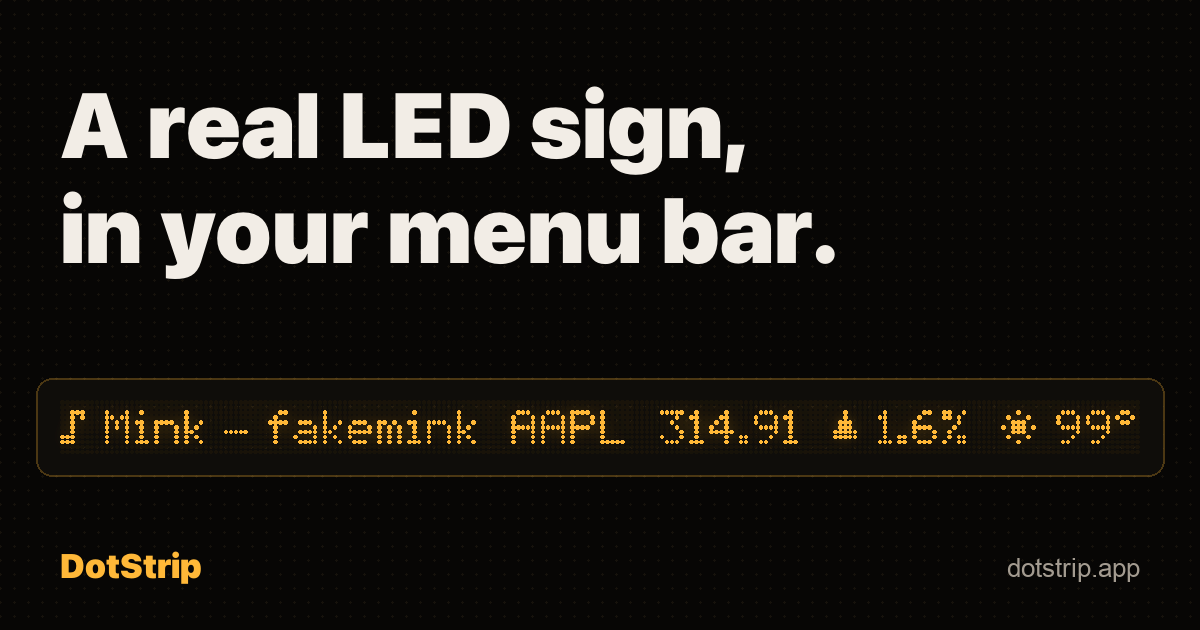
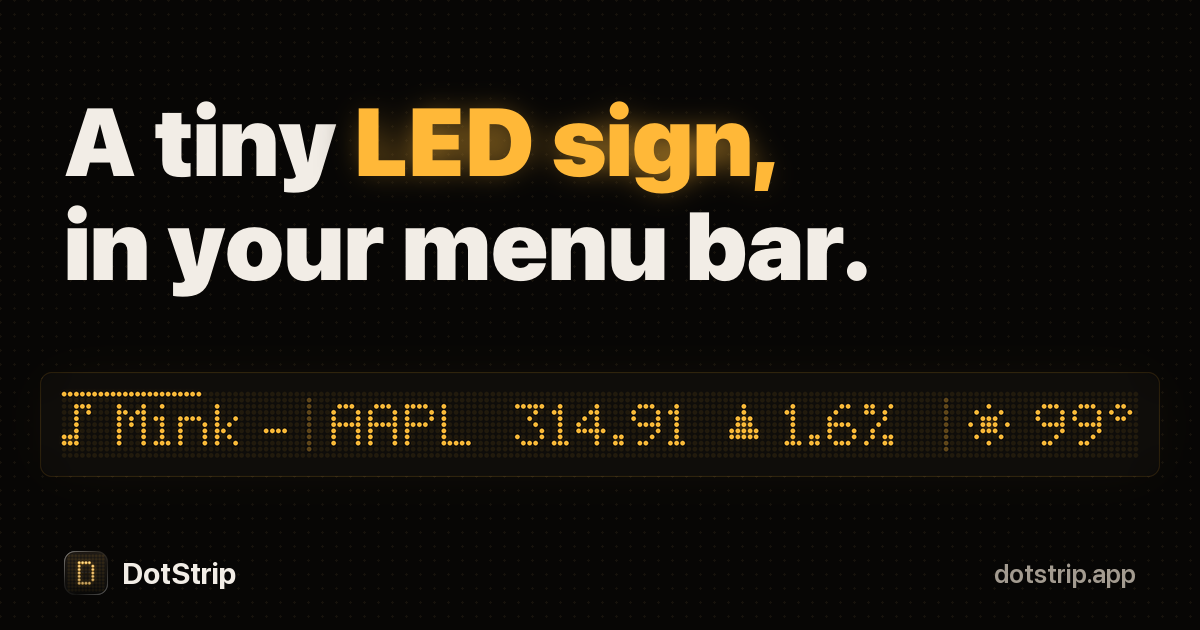
Update the website: new headline and link-preview card
Synced from DotStrip website/ (5c9f212).

diff --git a/index.html b/index.html
@@ -3,9 +3,9 @@
 <head>
 <meta charset="utf-8">
 <meta name="viewport" content="width=device-width, initial-scale=1">
-<title>DotStrip — an LED sign in your Mac's menu bar</title>
+<title>DotStrip — a tiny LED sign in your Mac's menu bar</title>
 <link rel="canonical" href="https://dotstrip.app/">
-<meta name="description" content="DotStrip puts a real dot-matrix LED board in your macOS menu bar and scrolls what you're playing, the news, stock quotes and the weather through it.">
+<meta name="description" content="DotStrip puts a dot-matrix LED board in your macOS menu bar and scrolls what you're playing, the news, stock quotes and the weather through it.">
 <meta name="theme-color" content="#070605">
 <meta property="og:type" content="website">
 <meta property="og:url" content="https://dotstrip.app/">
@@ -14,8 +14,8 @@
 <meta property="og:image:height" content="630">
 <meta name="twitter:card" content="summary_large_image">
 <meta name="twitter:image" content="https://dotstrip.app/assets/og.png">
-<meta property="og:title" content="DotStrip — an LED sign in your Mac's menu bar">
-<meta property="og:description" content="A real dot-matrix LED board in your menu bar: now playing, headlines, stocks and weather.">
+<meta property="og:title" content="DotStrip — a tiny LED sign in your Mac's menu bar">
+<meta property="og:description" content="A dot-matrix LED board in your menu bar: now playing, headlines, stocks and weather.">
 <link rel="icon" href="assets/icon.png">
 <link rel="stylesheet" href="assets/style.css">
 <link rel="stylesheet" href="assets/menubar.css">
@@ -36,7 +36,7 @@
 
   <header class="hero">
     <div class="eyebrow">For macOS 13+</div>
-    <h1>A real LED sign,<br>in your menu bar.</h1>
+    <h1>A tiny LED sign,<br>in your menu bar.</h1>
     <p class="lede">DotStrip lights up a dot-matrix board next to your clock and scrolls what you care about through it: the song playing, headlines, stock quotes and the weather.</p>
     <div class="cta">
       <a class="btn primary" href="#" data-download>Download for Mac</a>
